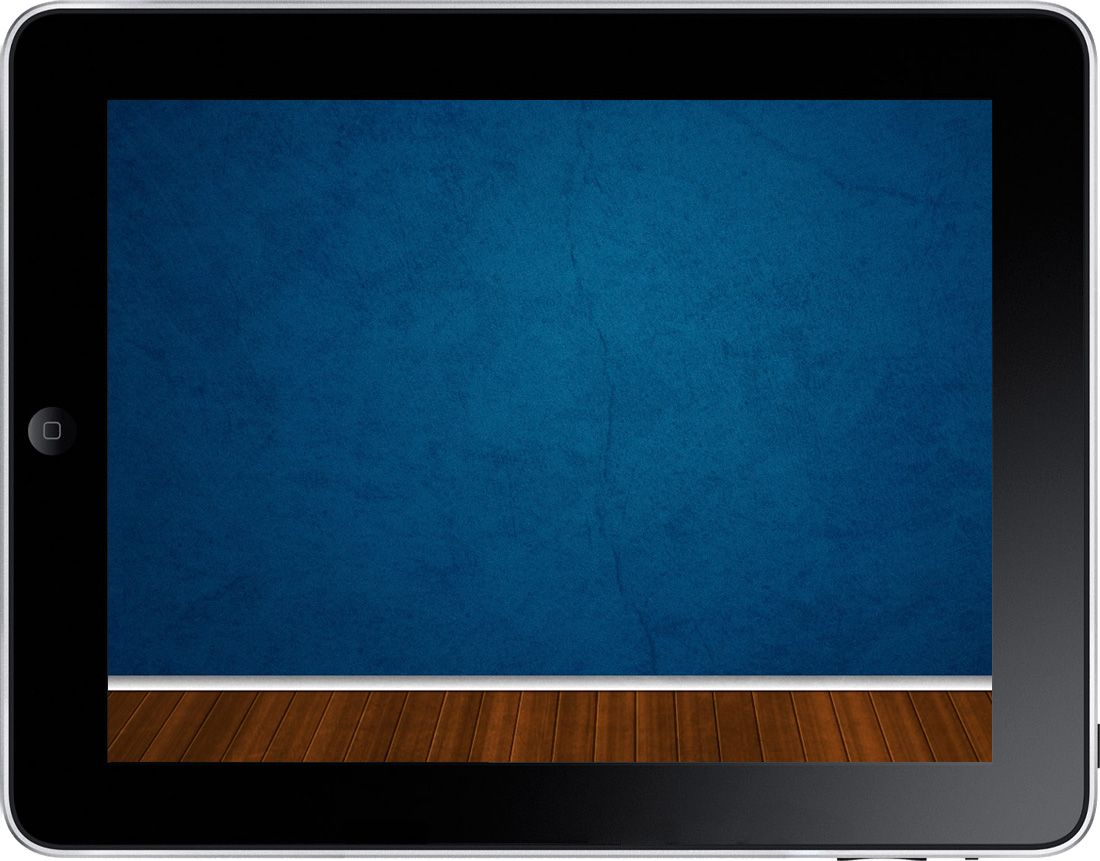
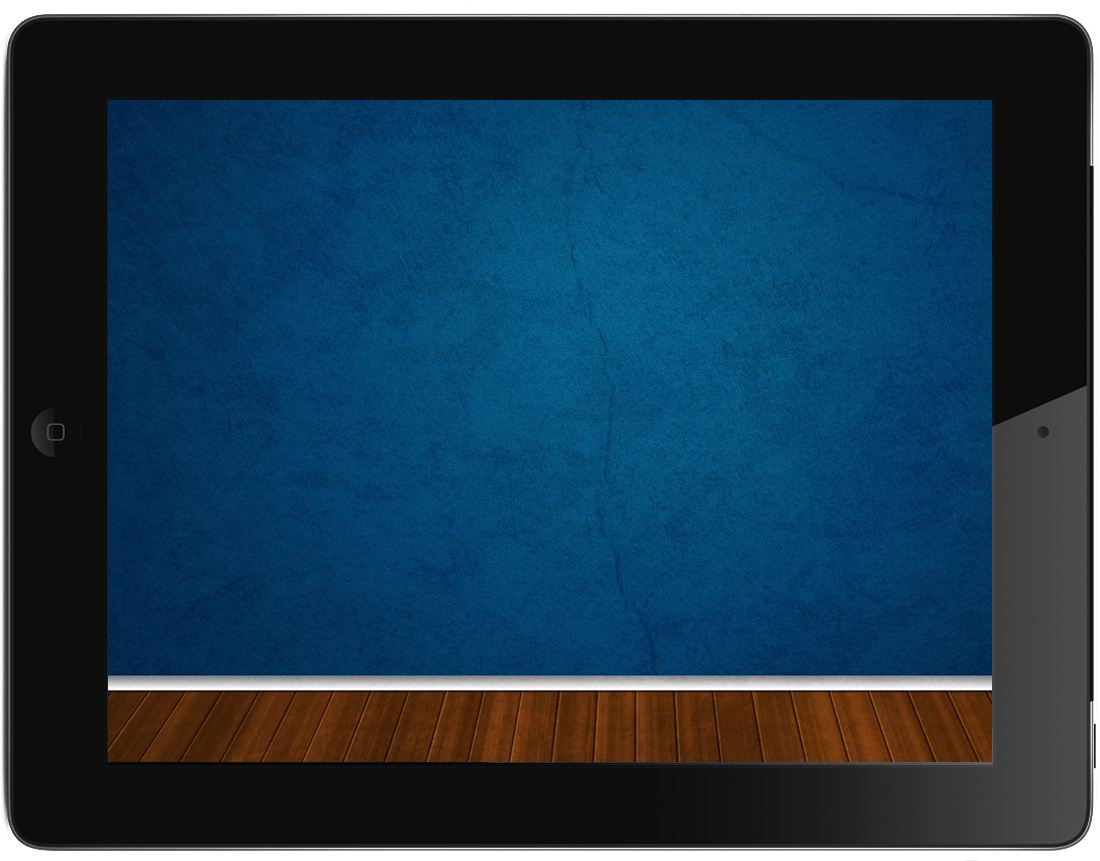
updated to ipad2 :)

Changed region(s): [[0.0, 0.0, 1.0, 1.0]]

diff --git a/style/ipad.css b/style/ipad.css
@@ -203,7 +203,7 @@ li {
 }
 
 .page li.app{
-    margin: 0 50px !important;
+    margin: 0 40px !important;
     padding: 15px 0;
     line-height: 20px;
 
@@ -284,6 +284,11 @@ li {
     color: #fff;
     font-family: Arial;
     text-shadow: #000 1px 1px 0px;
+    width: 94px;
+    height:96px;
+}
+#dock .apps li,#dock .ui-sortable-helper{
+    margin:0 25px;
 }
 .apps .mousedown .app_logo {
     opacity:0.68;
@@ -322,9 +327,7 @@ li {
 #dock .delete{
     top:-5px !important;
 }
-.apps li,.ui-sortable-helper {
-    height:96px;
-}
+
 .apps li .app_logo,.ui-sortable-helper .app_logo {
     display: block;
     height: 74px;
@@ -335,7 +338,8 @@ li {
     border-radius: 15px;
     -moz-box-shadow: 3px 25px 35px rgba(0, 0, 0, 0.6); /* FF3.5+ */
     -webkit-box-shadow: 3px 25px 35px rgba(0, 0, 0, 0.6); /* Saf3.0+, Chrome */
-    box-shadow: 3px 25px 35px rgba(0, 0, 0, 0.6); /* Opera 10.5, IE 9.0 */
+    box-shadow: 3px 25px 35px rgba(0, 0, 0, 0.6);
+    margin: 0 auto 6px; /* Opera 10.5, IE 9.0 */
 }
 .ui-sortable-helper{
     -moz-transform:scale(1.2);

diff --git a/index.php b/index.php
@@ -9,7 +9,11 @@ $apps[0] = Array(
 );
 $apps[1] = Array(
     'Maps',
-    'Messages',
+    'iMovie',
+    'camera',
+    'Photo Booth',
+    'facetime',
+    'Game Center',
     'Notes',
     'Photos',
     'Timezones',
@@ -90,9 +94,9 @@ $apps[3] = Array(
                 if($k != 0 && count($v)){
                     echo '<ul id="page'.$k.'" class="apps page">'."\n";
                         foreach($v as $kk=>$vv){
-                        echo '                            <li id="'.$vv.'" class="app">
+                        echo '<li id="'.str_replace(' ','',strtolower($vv)).'" class="app">
                                 <div class="delete">x</div>
-                                <div class="app_logo" style="background:url(\'apps/'.strtolower($vv).'.jpg\')"></div>
+                                <div class="app_logo" style="background-image:url(\'apps/'.str_replace(' ','',strtolower($vv)).'.jpg\')"></div>
                                 <span>'.$vv.'</span>
                             </li>'."\n";
                         }
@@ -118,9 +122,9 @@ $apps[3] = Array(
         <ul id="dock" class="apps">
             <?php
                 foreach($apps[0] as $kk=>$vv){
-                        echo '                            <li id="'.$vv.'" class="app">
+                        echo '<li id="'.str_replace(' ','',strtolower($vv)).'" class="app">
                                 <div class="delete">x</div>
-                                <div class="app_logo" style="background:url(\'apps/'.strtolower($vv).'.jpg\')"></div>
+                                <div class="app_logo" style="background-image:url(\'apps/'.str_replace(' ','',strtolower($vv)).'.jpg\')"></div>
                                 <span>'.$vv.'</span>
                             </li>'."\n";
                         }
